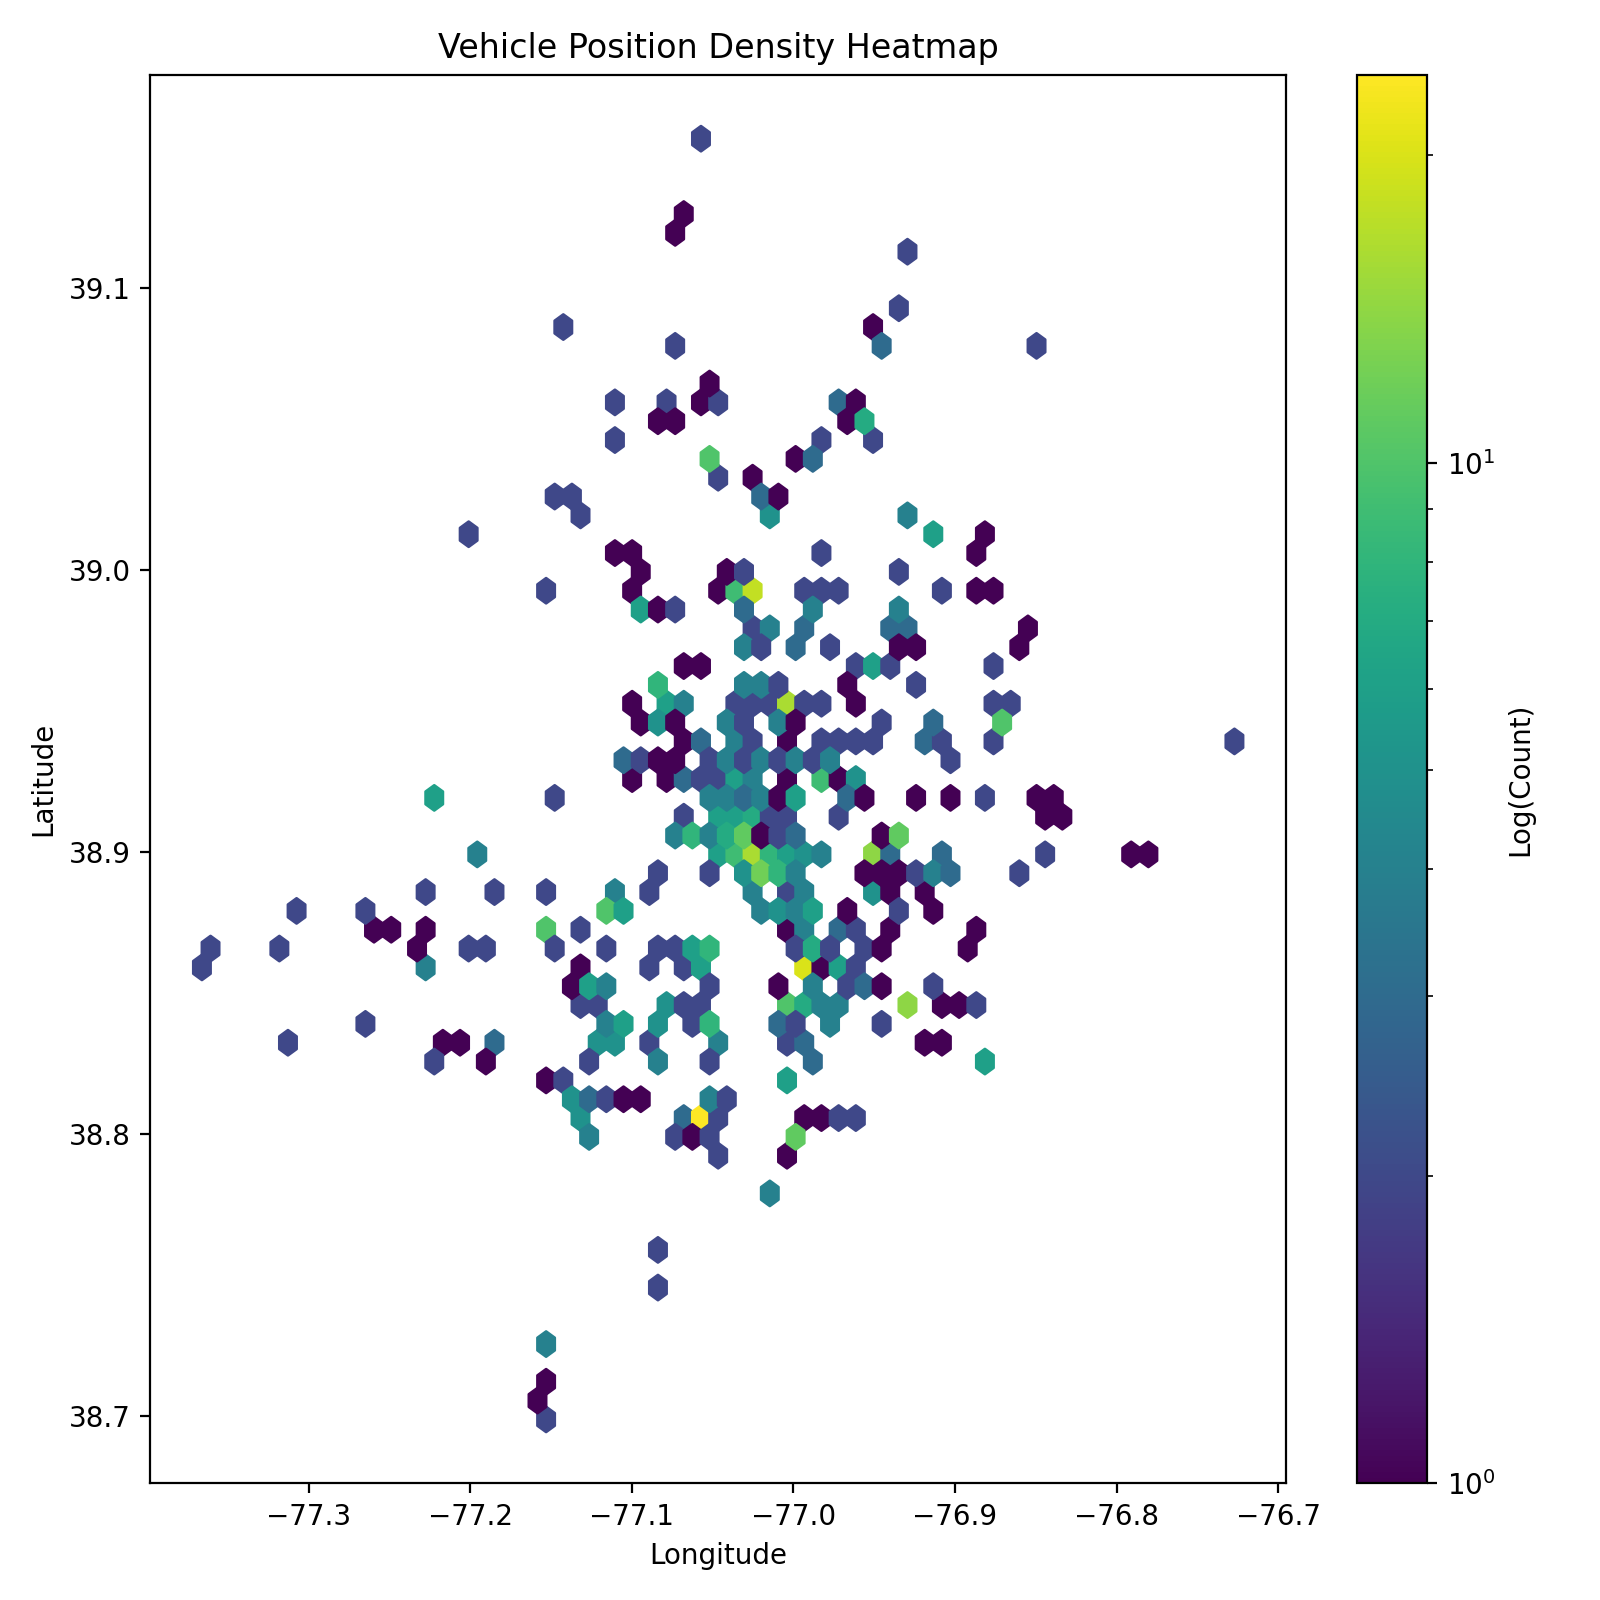
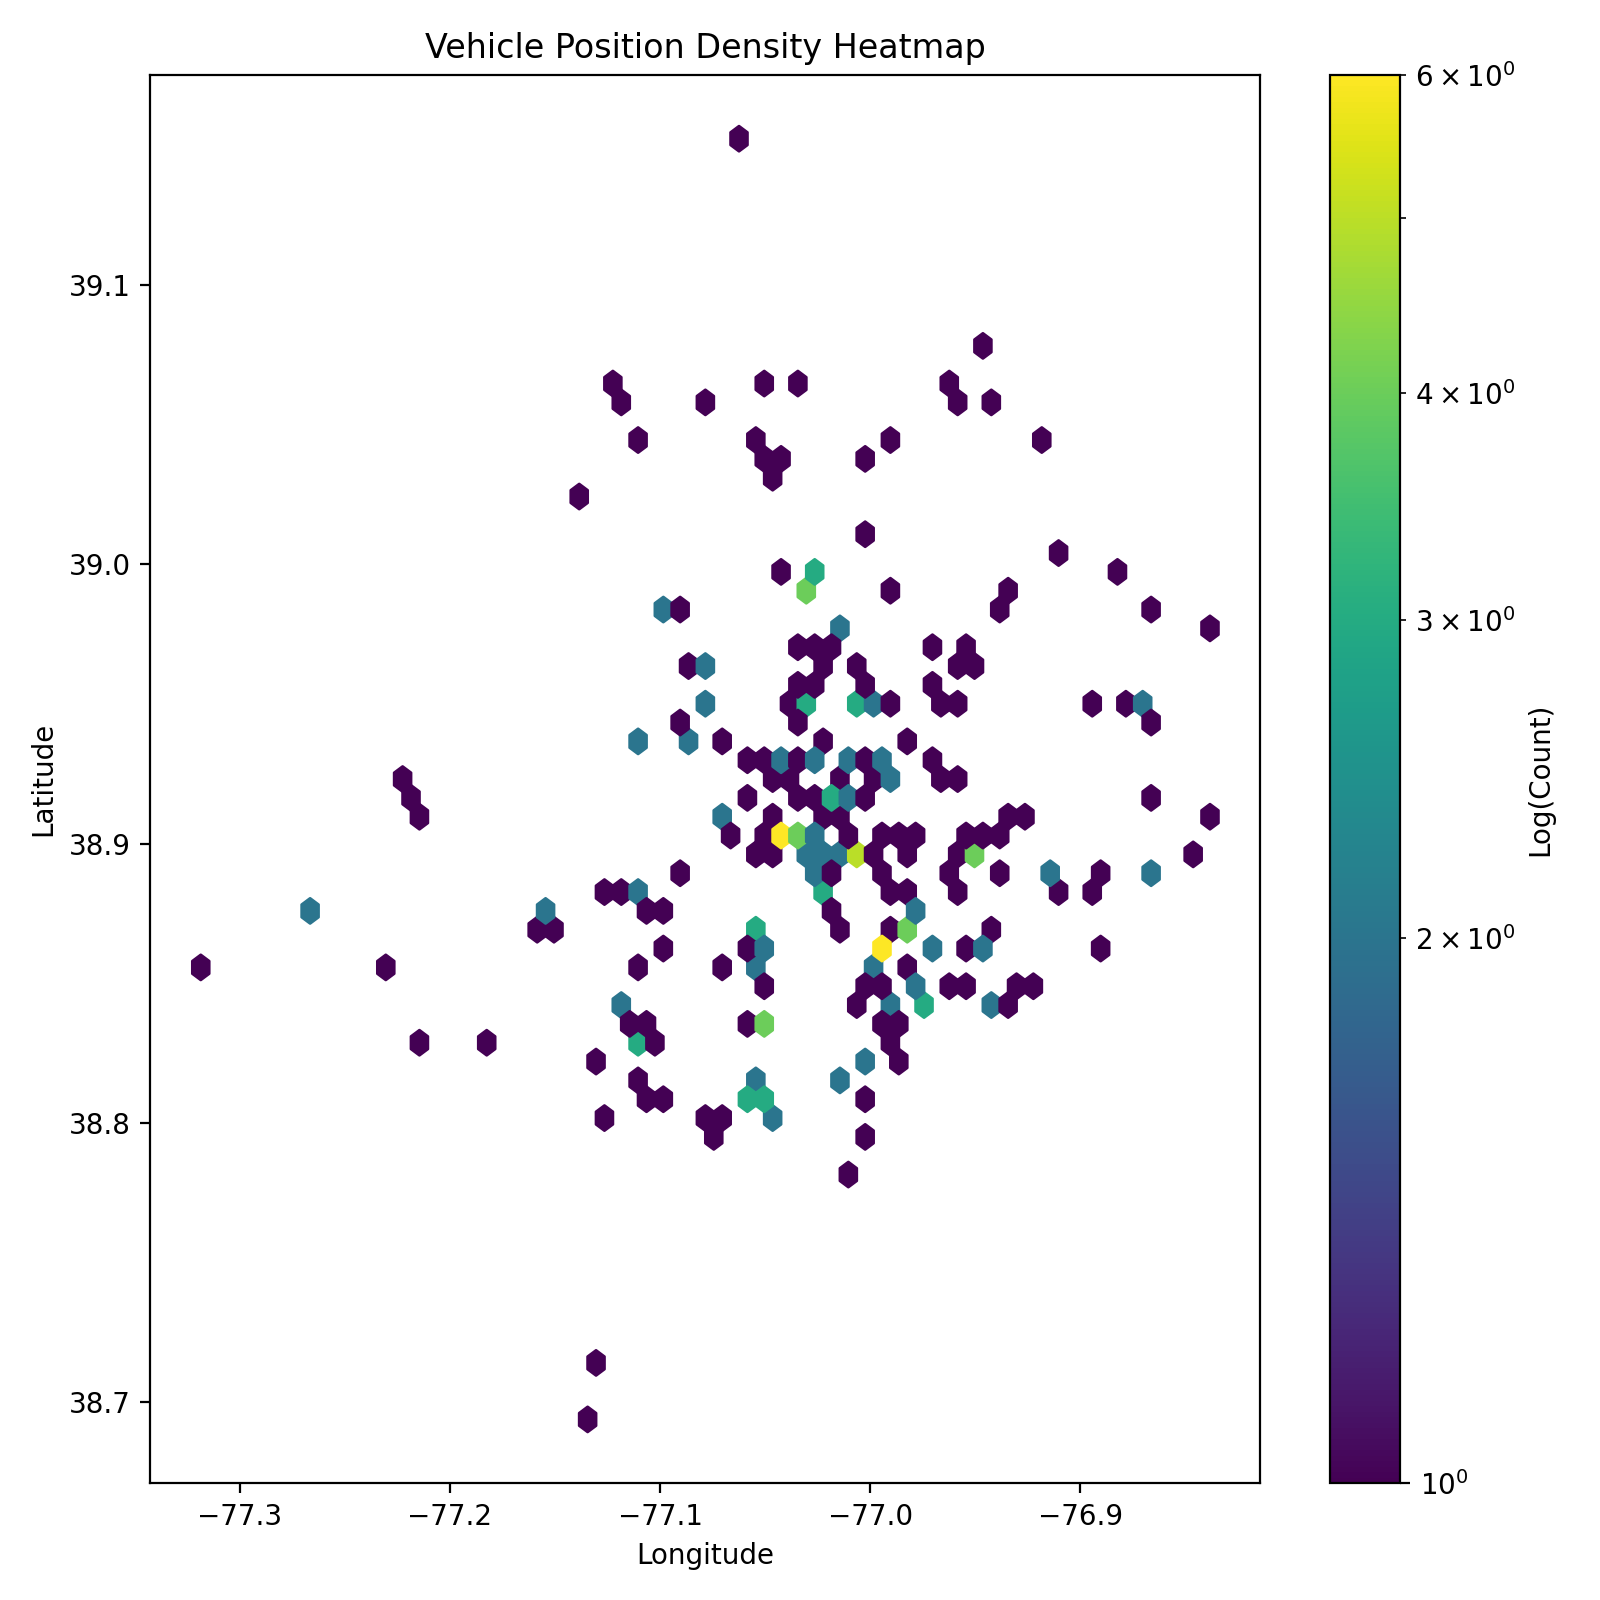
almost

diff --git a/scripts/producer.py b/scripts/producer.py
@@ -85,7 +85,7 @@ def publish_to_kafka_updates(app, topic):
                 print(f"The bus with the id {event_key} has been inputted into Kafka")
 
     except Exception as e:
-        print(f"e")
+        print(f"{e}")
         
 
 #task to produce bus positions to kafka
@@ -143,7 +143,7 @@ def publish_to_kafka_positions(app, topic):
                 )
                 print(f"The bus with the id {event_key} has been inputted into Kafka")
     except Exception as e:
-        print(f"e")
+        print(f"{e}")
 
 
 #flow that runs all the tasks
@@ -186,7 +186,7 @@ def consumer_flow():
             #wait at least 45 seconds for new data
             time.sleep(45)
     except Exception as e:
-        print(f"e")
+        print(f"{e}")
 
 
 #run the whole code
@@ -195,4 +195,4 @@ if __name__ == "__main__":
     try:
         consumer_flow()
     except Exception as e:
-        print(f"e")
+        print(f"{e}")

diff --git a/scripts/consumer.py b/scripts/consumer.py
@@ -199,7 +199,7 @@ def updates_duckdb(app):
                     #let kafka know that this message has been consumed
                     consumer.store_offsets(msg)
     except Exception as e:
-        print(f"e")
+        print(f"{e}")
 
 #task to insert all positions into duckdb
 @task(cache_key_fn=None)
@@ -240,7 +240,7 @@ def positions_duckdb(app):
                         print(f"✗ Failed to insert record {offset}")
                     consumer.store_offsets(msg)
     except Exception as e:
-        print(f"e")
+        print(f"{e}")
 
 #flow to run everything
 @flow(name = "Metro-flow", log_prints = True)
@@ -257,7 +257,7 @@ def consumer_flow():
         positions_duckdb(app)
         print("Consumed all position data")
     except Exception as e:
-        print(f"e")
+        print(f"{e}")
 
 if __name__ == "__main__":
     #graceful error handling
